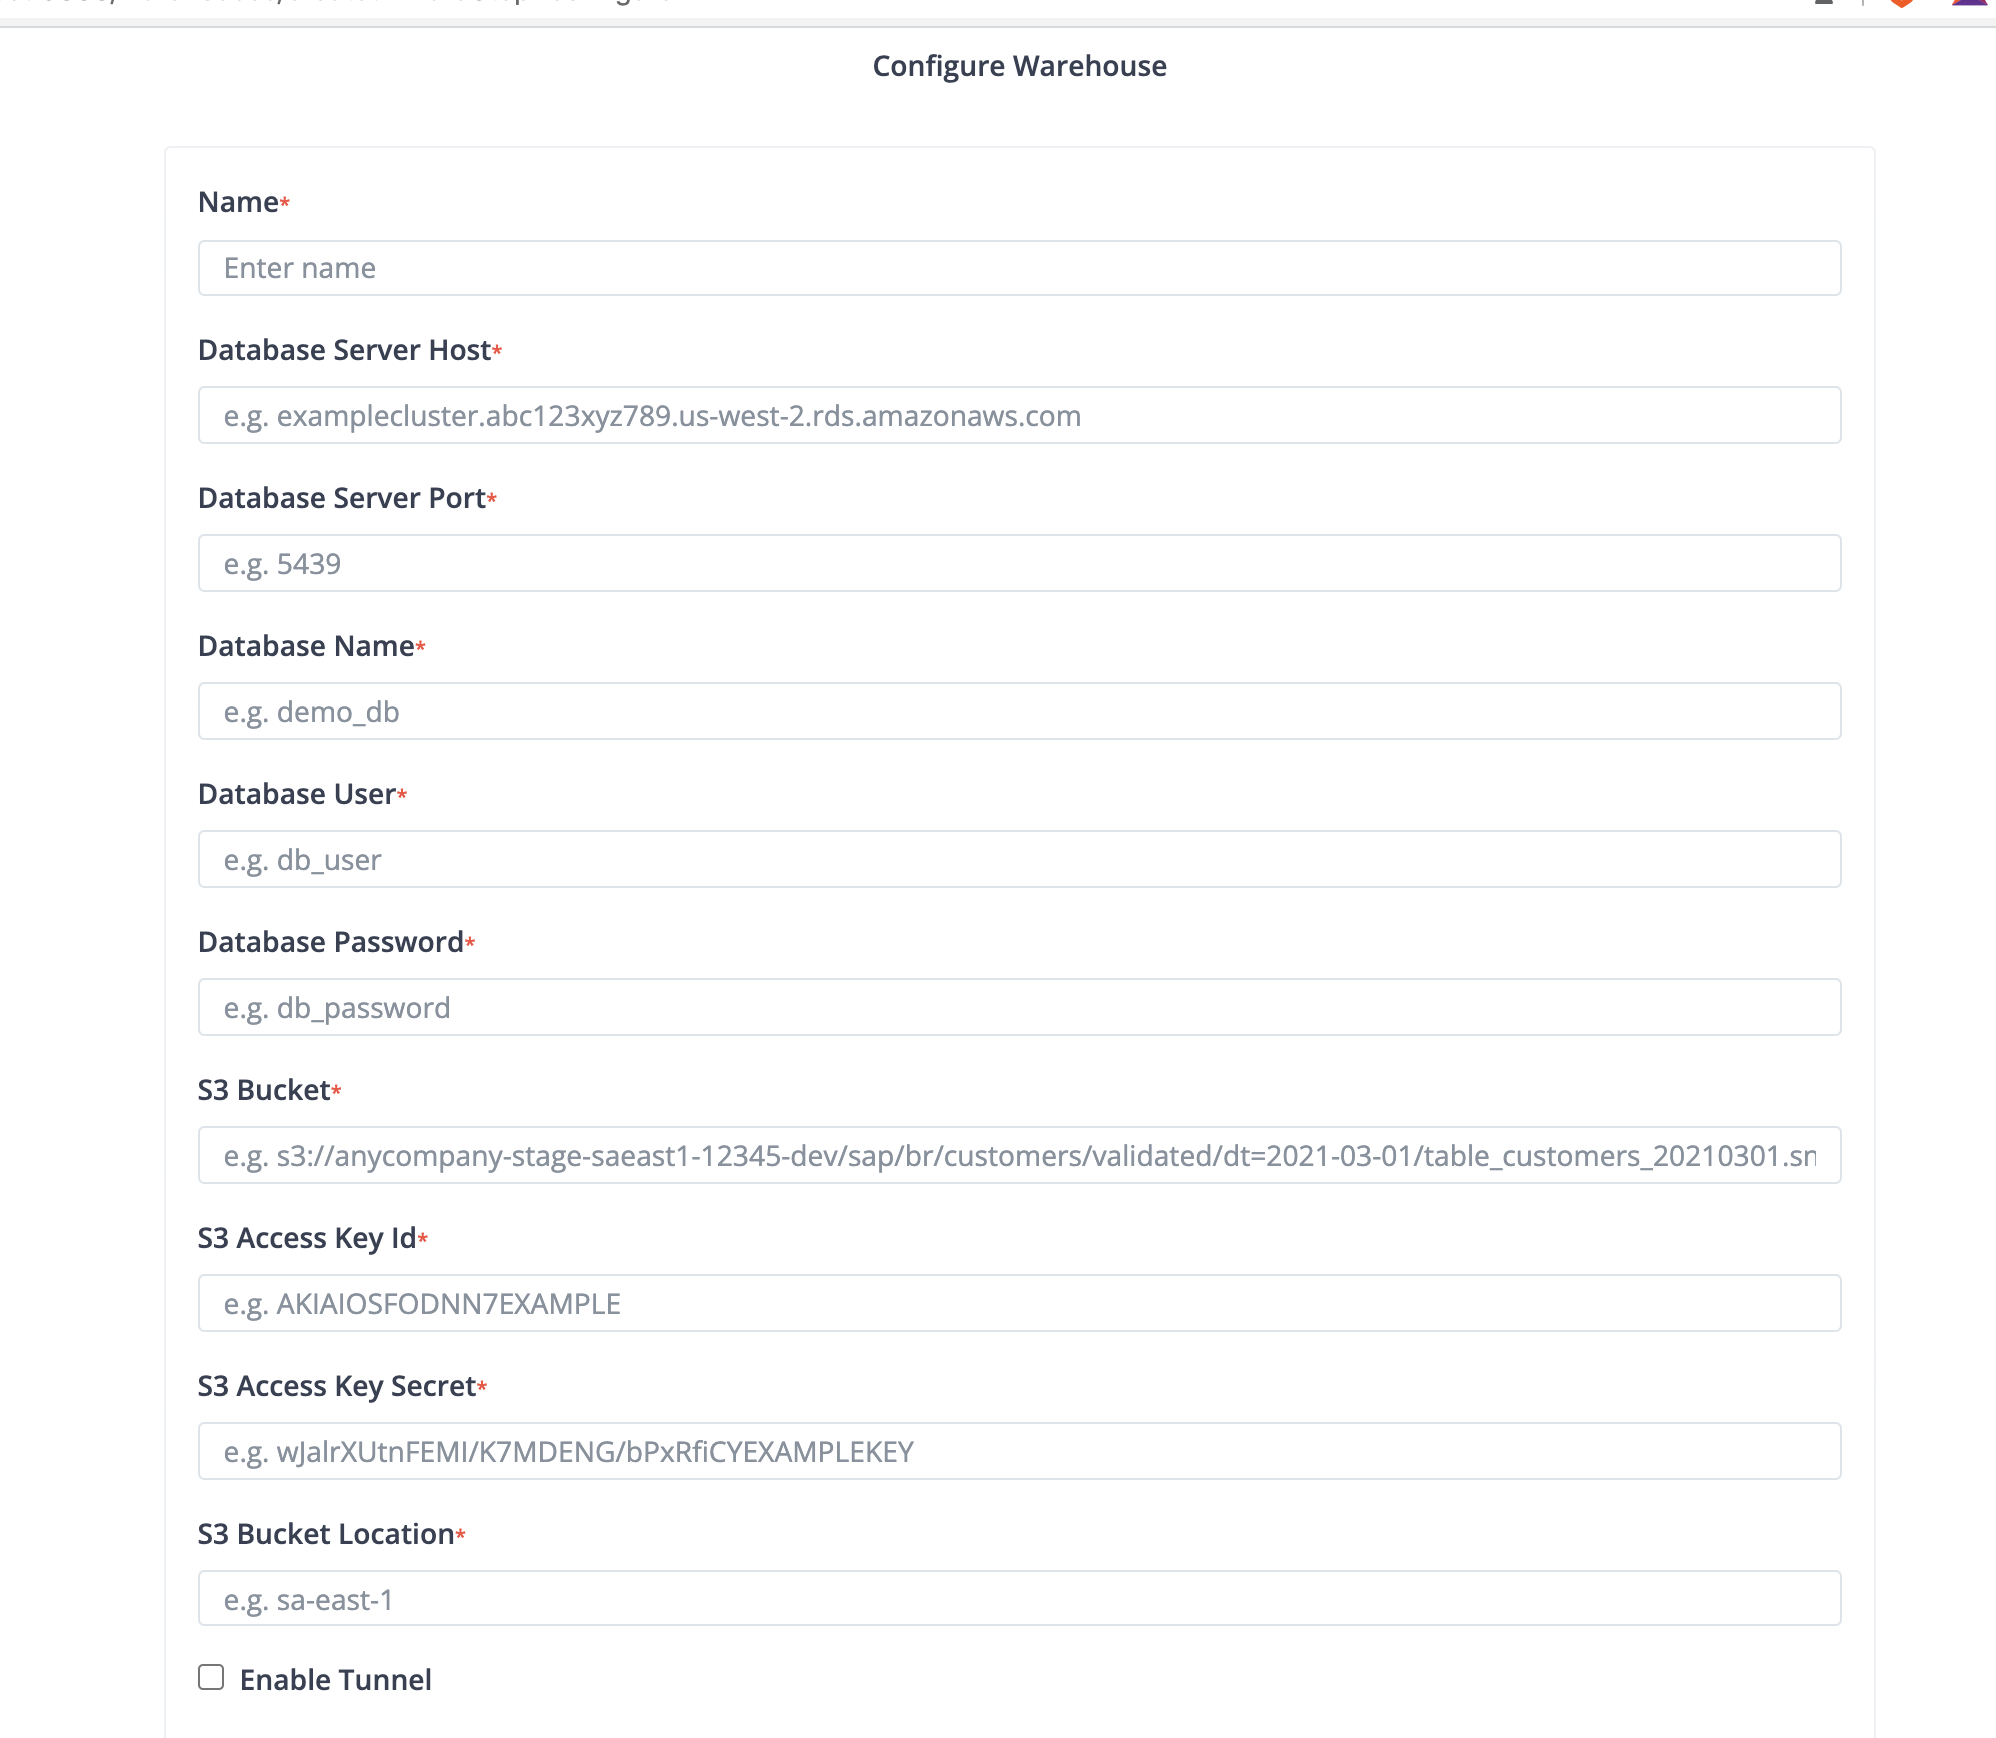
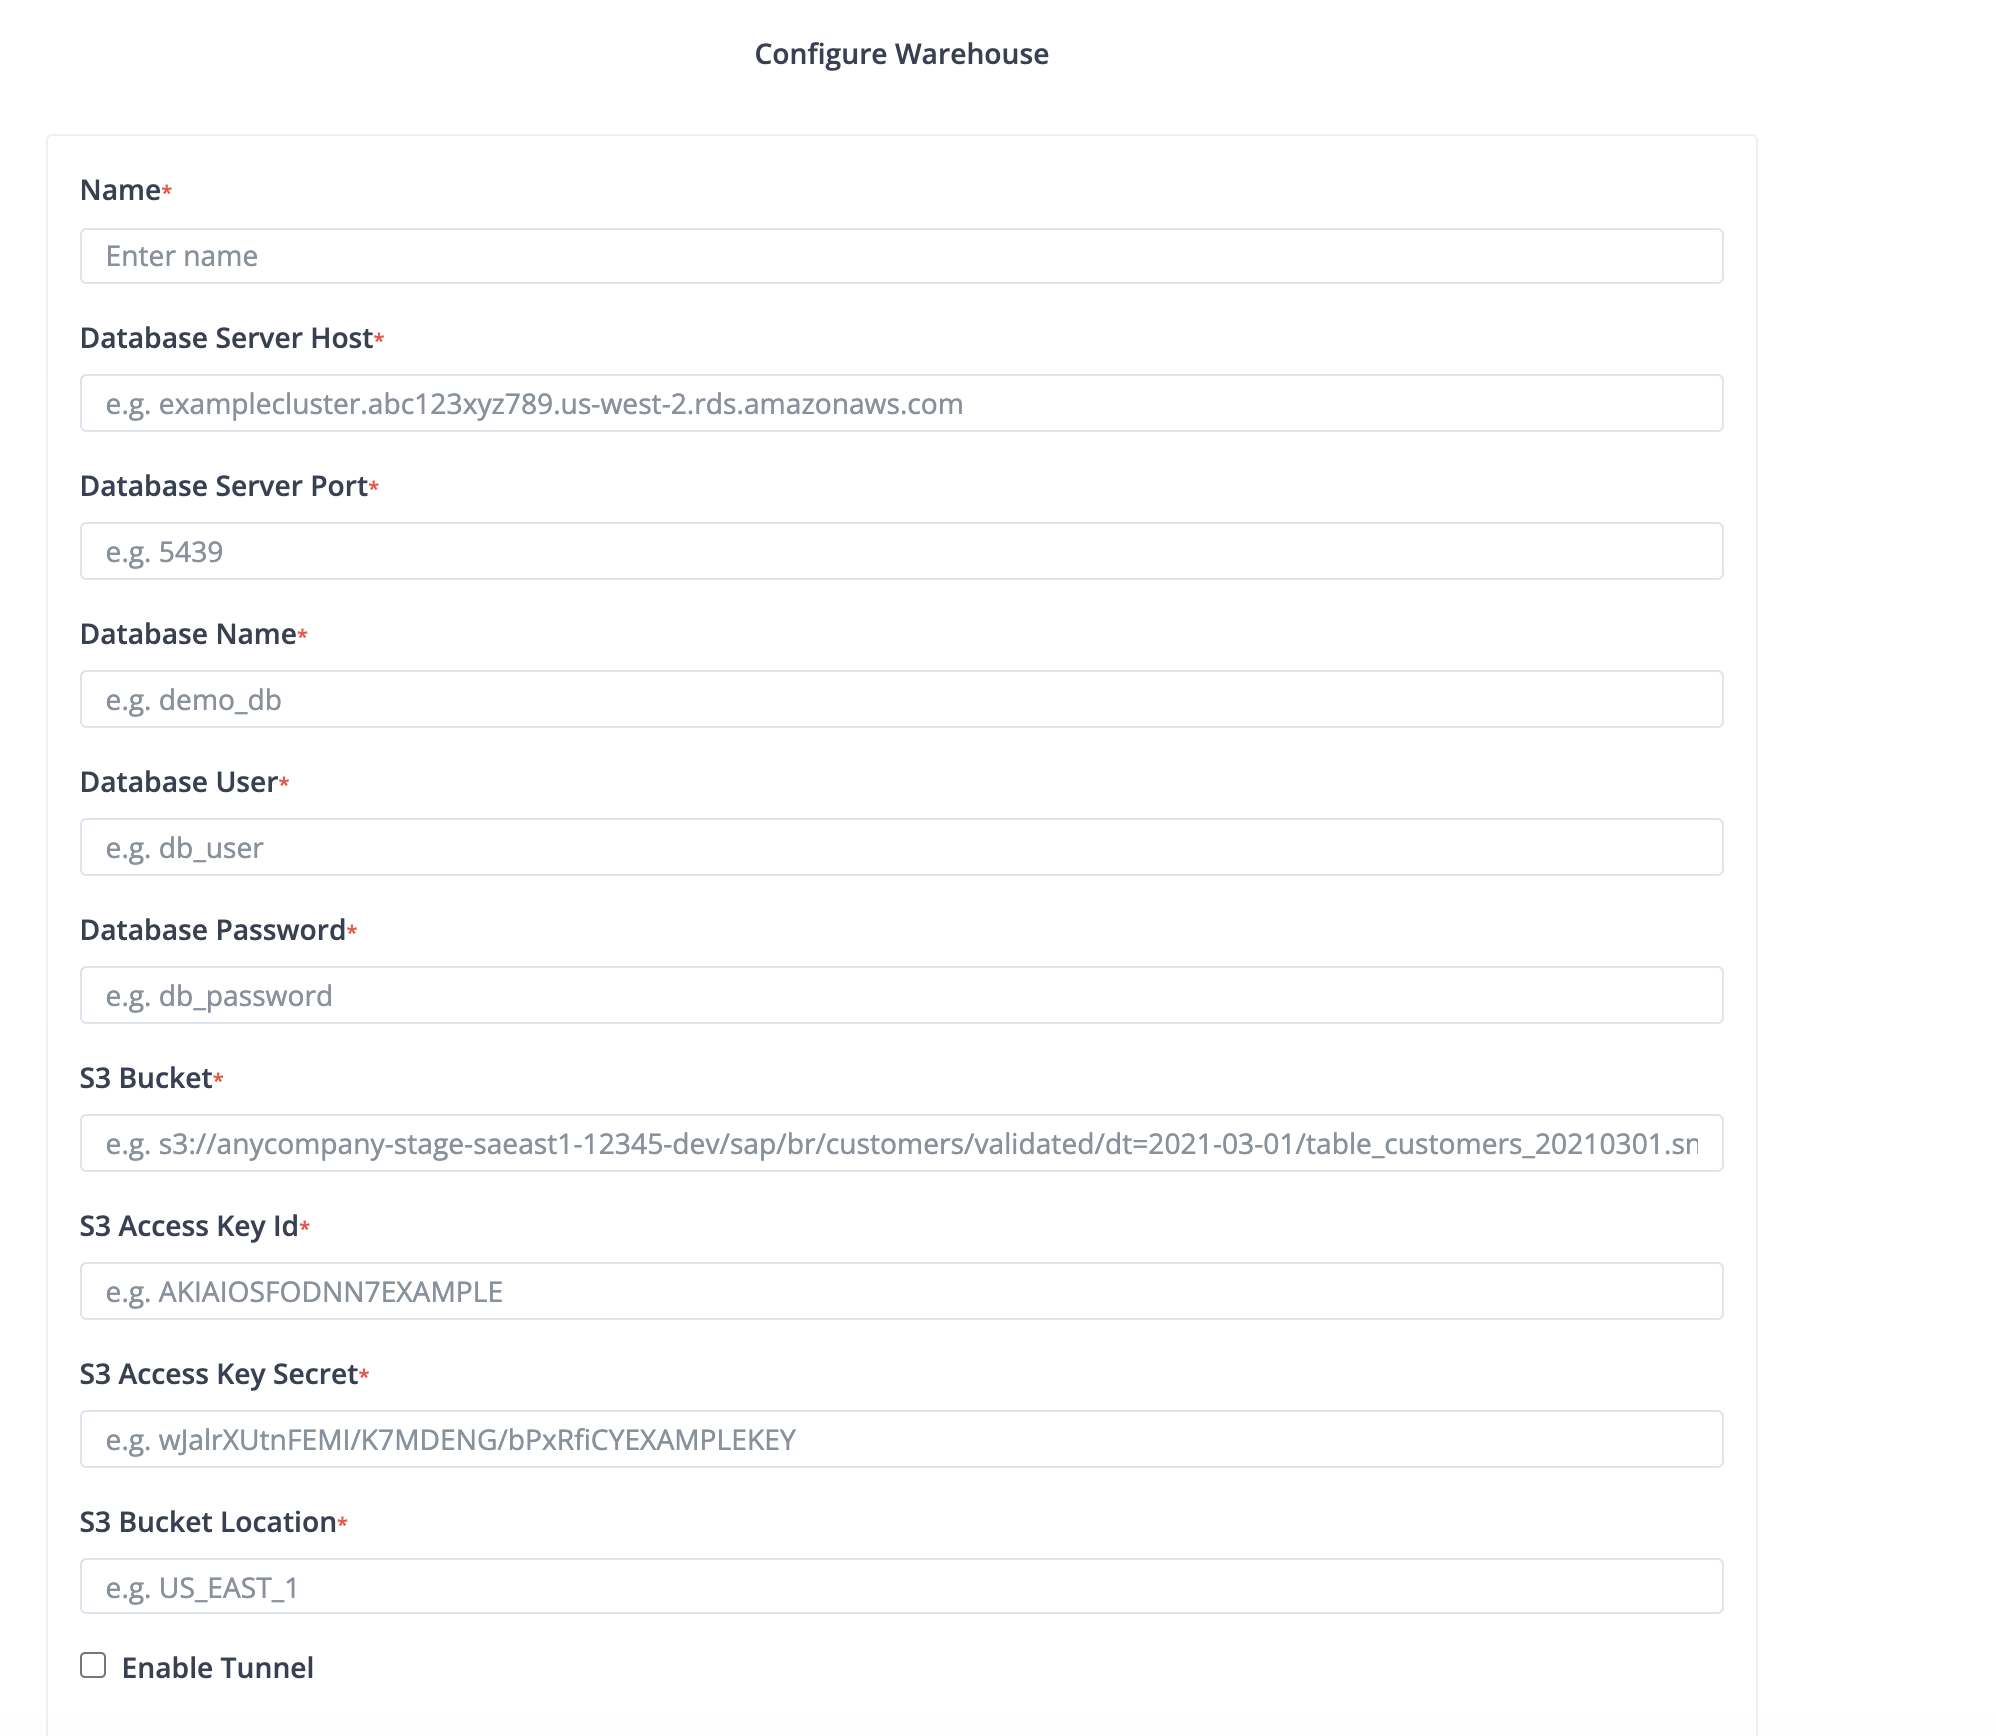
warehouse doc correction

Changed region(s): [[0.0311, 0.0933, 0.9008, 0.9954], [0.3727, 0.0, 0.5902, 0.0622]]

diff --git a/connectors/src/main/java/io/castled/warehouses/connectors/snowflake/SnowflakeWarehouseConfig.java b/connectors/src/main/java/io/castled/warehouses/connectors/snowflake/SnowflakeWarehouseConfig.java
@@ -39,7 +39,7 @@ public class SnowflakeWarehouseConfig extends WarehouseConfig {
     @FormField(description = "S3 Access Key Secret", title = "S3 Access Key Secret", placeholder = "e.g. wJalrXUtnFEMI/K7MDENG/bPxRfiCYEXAMPLEKEY", schema = FormFieldSchema.STRING, type = FormFieldType.TEXT_BOX)
     private String accessKeySecret;
 
-    @FormField(description = "S3 Bucket Location", title = "S3 Bucket Location", placeholder = "e.g. sa-east-1", schema = FormFieldSchema.STRING, type = FormFieldType.TEXT_BOX)
+    @FormField(description = "S3 Bucket Location", title = "S3 Bucket Location", placeholder = "e.g. US_EAST_1", schema = FormFieldSchema.STRING, type = FormFieldType.TEXT_BOX)
     private Regions region;
 
     public String getDbHost() {

diff --git a/connectors/src/main/java/io/castled/warehouses/connectors/redshift/RedshiftWarehouseConfig.java b/connectors/src/main/java/io/castled/warehouses/connectors/redshift/RedshiftWarehouseConfig.java
@@ -36,7 +36,7 @@ public class RedshiftWarehouseConfig extends TunneledWarehouseConfig {
     @FormField(description = "S3 Access Key Secret", title = "S3 Access Key Secret", placeholder = "e.g. wJalrXUtnFEMI/K7MDENG/bPxRfiCYEXAMPLEKEY", schema = FormFieldSchema.STRING, type = FormFieldType.TEXT_BOX)
     private String accessKeySecret;
 
-    @FormField(description = "S3 Bucket Location", title = "S3 Bucket Location", placeholder = "e.g. sa-east-1", schema = FormFieldSchema.STRING, type = FormFieldType.TEXT_BOX)
+    @FormField(description = "S3 Bucket Location", title = "S3 Bucket Location", placeholder = "e.g. US_EAST_1", schema = FormFieldSchema.STRING, type = FormFieldType.TEXT_BOX)
     private Regions region;
 
 }

diff --git a/docs/docs/getting-started/Sources/configure-snowflake.md b/docs/docs/getting-started/Sources/configure-snowflake.md
@@ -102,7 +102,7 @@ GRANT USAGE ON FUTURE FUNCTIONS IN SCHEMA "<your_database>"."<your_schema>" TO R
 - **S3 Bucket**
   - A unique name for the bucket.S3 Bucket names are global and cannot have a name which is already in for another user.
 - **S3 Bucket Location**
-  - AWS Location or region where your S3 Bucket resides. e.g. us-east-1
+  - AWS Location or region where your S3 Bucket resides.Please refer [S3 Bucket Location](../Appendix/s3-location.md) for the list of possible values for S3 Bucket locations.e.g. US_EAST_1
 - **S3 Access Key Id**
   - Access key is a combination of the access key Id and secret access key.You need to use this Access Key Id and Secret Access Key to connect to your AWS Connect and access the S3 Bucket.
 - **S3 Access Key Secret**

diff --git a/docs/docs/getting-started/Sources/configure-redshift.md b/docs/docs/getting-started/Sources/configure-redshift.md
@@ -81,7 +81,7 @@ ALTER DEFAULT PRIVILEGES IN SCHEMA "<your schema>" GRANT EXECUTE ON FUNCTIONS TO
 - **S3 Bucket**
   - A unique name for the bucket.S3 Bucket names are global and cannot have a name which is already in for another user.
 - **S3 Bucket Location**
-  - AWS Location or region where your S3 Bucket resides. e.g. us-east-1
+  - AWS Location or region where your S3 Bucket resides.Please refer [S3 Bucket Location](../Appendix/s3-location.md) for the list of possible values for S3 Bucket locations.e.g. US_EAST_1
 - **S3 Access Key Id**
   - Access key is a combination of the access key Id and secret access key.You need to use this Access Key Id and Secret Access Key to connect to your AWS Connect and access the S3 Bucket.
 - **S3 Access Key Secret**

diff --git a/docs/docs/getting-started/Appendix/s3-location.md b/docs/docs/getting-started/Appendix/s3-location.md
@@ -1,0 +1,30 @@
+---
+sidebar_position: 2
+---
+
+# AWS S3 Bucket Locations
+
+In Amazon S3, data is stored in buckets. These buckets are like containers that can hold objects.While creating a bucket you specify the region where the bucket would reside. User can select one of the below mentioned values for AWS S3 Bucket locations.
+
+- GovCloud
+- US_GOV_EAST_1
+- US_EAST_1
+- US_EAST_2
+- US_WEST_1
+- US_WEST_2
+- EU_WEST_1
+- EU_WEST_2
+- EU_WEST_3
+- EU_CENTRAL_1
+- EU_NORTH_1
+- EU_SOUTH_1
+- AP_EAST_1
+- AP_SOUTH_1
+- AP_SOUTHEAST_1
+- AP_NORTHEAST_1
+- SA_EAST_1
+- CN_NORTH_1
+- CN_NORTHWEST_1
+- CA_CENTRAL_1
+- ME_SOUTH_1
+- AF_SOUTH_1

diff --git a/docs/docs/getting-started/Sources/configure-postgres.md b/docs/docs/getting-started/Sources/configure-postgres.md
@@ -96,6 +96,6 @@ Castled uses SSH Tunelling to connect in cases where Postgres is accessible only
     1. SSH Host IP/DNS Name
     2. SSH Port : Default is 22 unless changed
     3. SSH Username : User created for Castled on the SSH Host
-    ![Docusaurus](/img/screens/sources/redshift/wh_redshift_config_2.png)
+    ![Docusaurus](/img/screens/sources/postgres/wh_postgres_config.png)
 3. On successful creation of the new Connector , Castled will generate a key pair fo the SSH authentication . Refer [Connecting through SSH Tunnel](../Appendix/ssh-tunnel.md)  for details on how to add the castled public key to authorized_keys.
 
